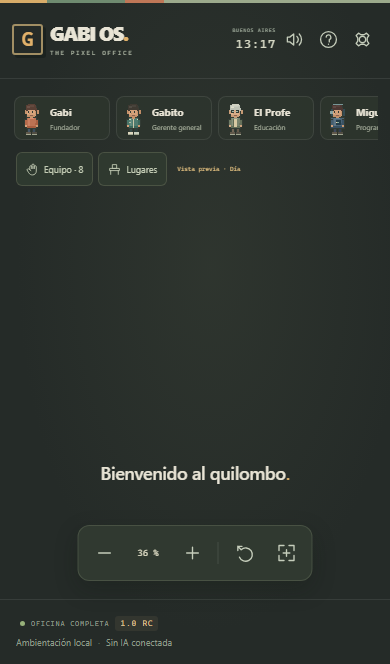
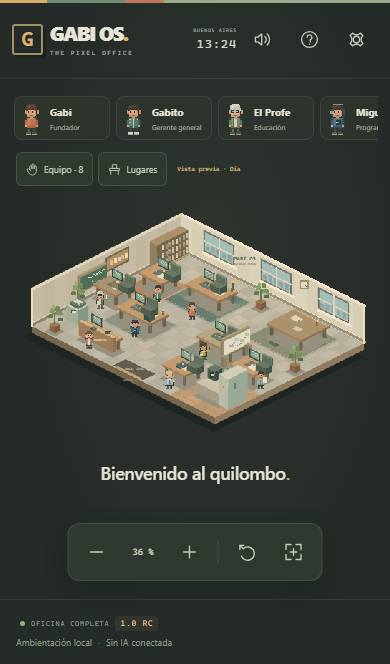
Make mobile office controls easier to tap and refresh previews

diff --git a/src/interaction.css b/src/interaction.css
@@ -1,3 +1,7 @@
 /* Transparent space around floating controls must not swallow taps on the office. */
 .cast,.explore-tools{pointer-events:none}
 .cast button,.explore-tools button{pointer-events:auto}
+.camera-tools .square{width:44px;height:44px}
+.scene-actions button{min-height:44px}
+@media(max-width:600px){.header-right>.square{width:44px;height:44px}}
+@media(max-width:380px){.header-right .local-time{display:none}}
